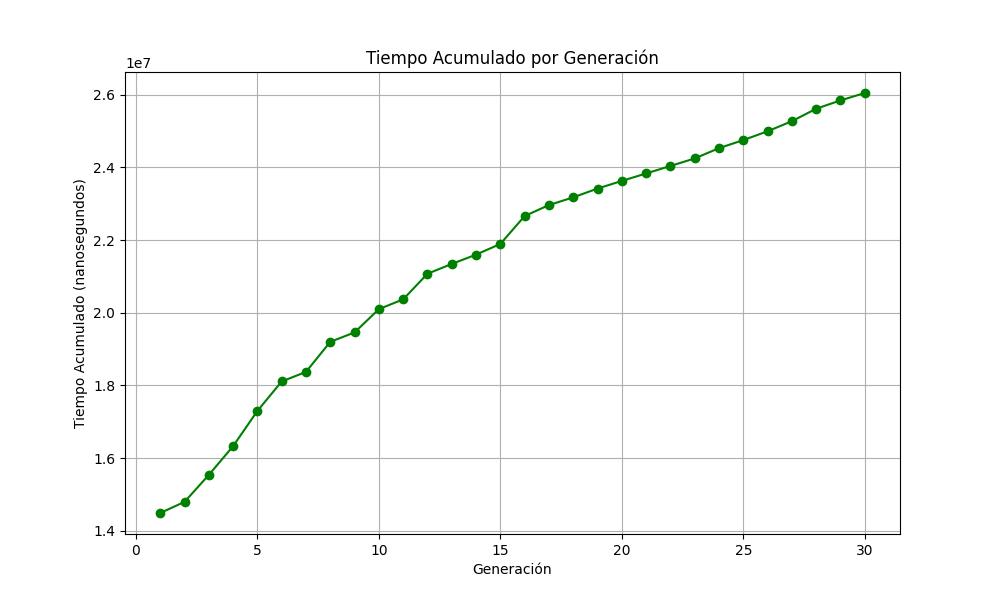
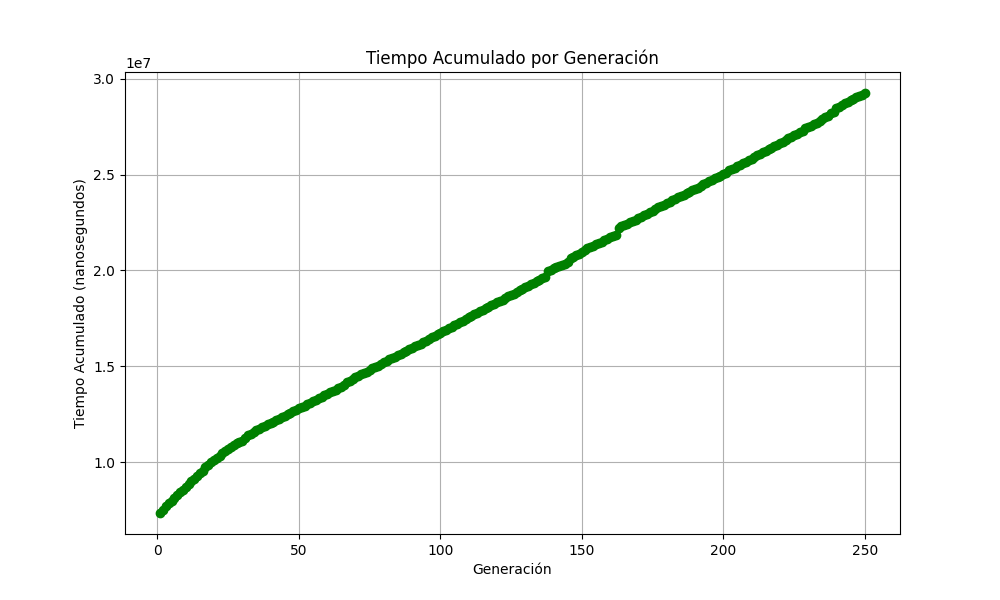
Analisis

diff --git a/analisis/analisis_JENETICS.py b/analisis/analisis_JENETICS.py
@@ -4,41 +4,42 @@ import matplotlib.pyplot as plt
 # Carga los datos desde el archivo CSV
 datos = pd.read_csv('../ResultadosAlgoritmoGenetico.csv')
 
+
+# Ajustes para los gráficos
+fig_size = (12, 8)  # Tamaño de la figura aumentado
+alpha = 0.7  # Transparencia
+
 # Graficar la aptitud del mejor individuo por generación
-plt.figure(figsize=(10, 6))
-plt.plot(datos['Generacion'], datos['Aptitud Mejor Individuo'], marker='o')
+plt.figure(figsize=fig_size)
+plt.plot(datos['Generacion'], datos['Aptitud Mejor Individuo'], alpha=alpha)
 plt.title('Aptitud del Mejor Individuo por Generación')
 plt.xlabel('Generación')
 plt.ylabel('Aptitud')
 plt.grid(True)
-plt.savefig('aptitud_por_generacion.png')
 
-# Graficar el tiempo por generación
-plt.figure(figsize=(10, 6))
-plt.plot(datos['Generacion'], datos['Tiempo por generacion'], marker='o', color='r')
-plt.title('Tiempo por Generación')
+# Graficar el tiempo por generación con suavizado
+plt.figure(figsize=fig_size)
+plt.plot(datos['Generacion'], datos['Tiempo por generacion'].rolling(window=5).mean(), color='r', alpha=alpha)
+plt.title('Tiempo por Generación (Promedio Móvil)')
 plt.xlabel('Generación')
-plt.ylabel('Tiempo (nanosegundos)')
+plt.ylabel('Tiempo (milisegundos)')
 plt.grid(True)
-plt.savefig('tiempo_por_generacion.png')
 
-# Graficar el tiempo acumulado por generación
-plt.figure(figsize=(10, 6))
-plt.plot(datos['Generacion'], datos['Tiempo total'], marker='o', color='g')
+# Graficar el tiempo total acumulado por generación
+plt.figure(figsize=fig_size)
+plt.plot(datos['Generacion'], datos['Tiempo total'], color='g', alpha=alpha)
 plt.title('Tiempo Acumulado por Generación')
 plt.xlabel('Generación')
-plt.ylabel('Tiempo Acumulado (nanosegundos)')
+plt.ylabel('Tiempo Acumulado (milisegundos)')
 plt.grid(True)
-plt.savefig('tiempo_acumulado_por_generacion.png')
 
-# Grafica Uso de CPU
-plt.figure(figsize=(10, 6))
-plt.plot(datos['Generacion'], datos['Uso CPU'], marker='o', color='y')
-plt.title('Uso de CPU')
+# Gráfico de dispersión para el uso de CPU
+plt.figure(figsize=fig_size)
+plt.scatter(datos['Generacion'], datos['Uso CPU'], color='y', alpha=alpha)
+plt.title('Uso de CPU por Generación')
 plt.xlabel('Generación')
 plt.ylabel('Uso de CPU (%)')
 plt.grid(True)
-plt.savefig('uso_cpu.png')
 
 
 
